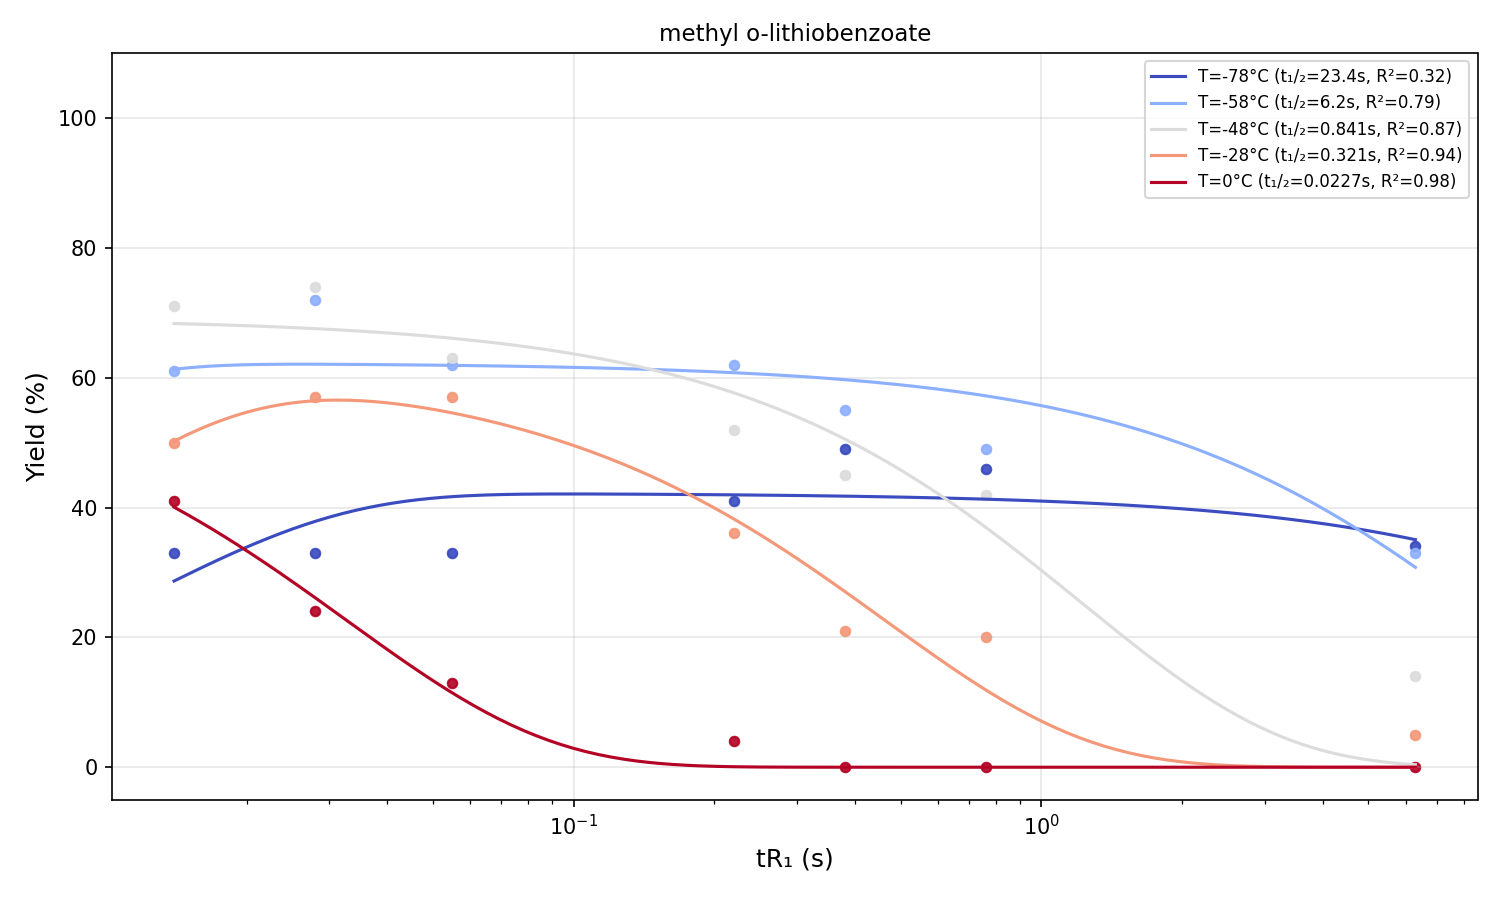
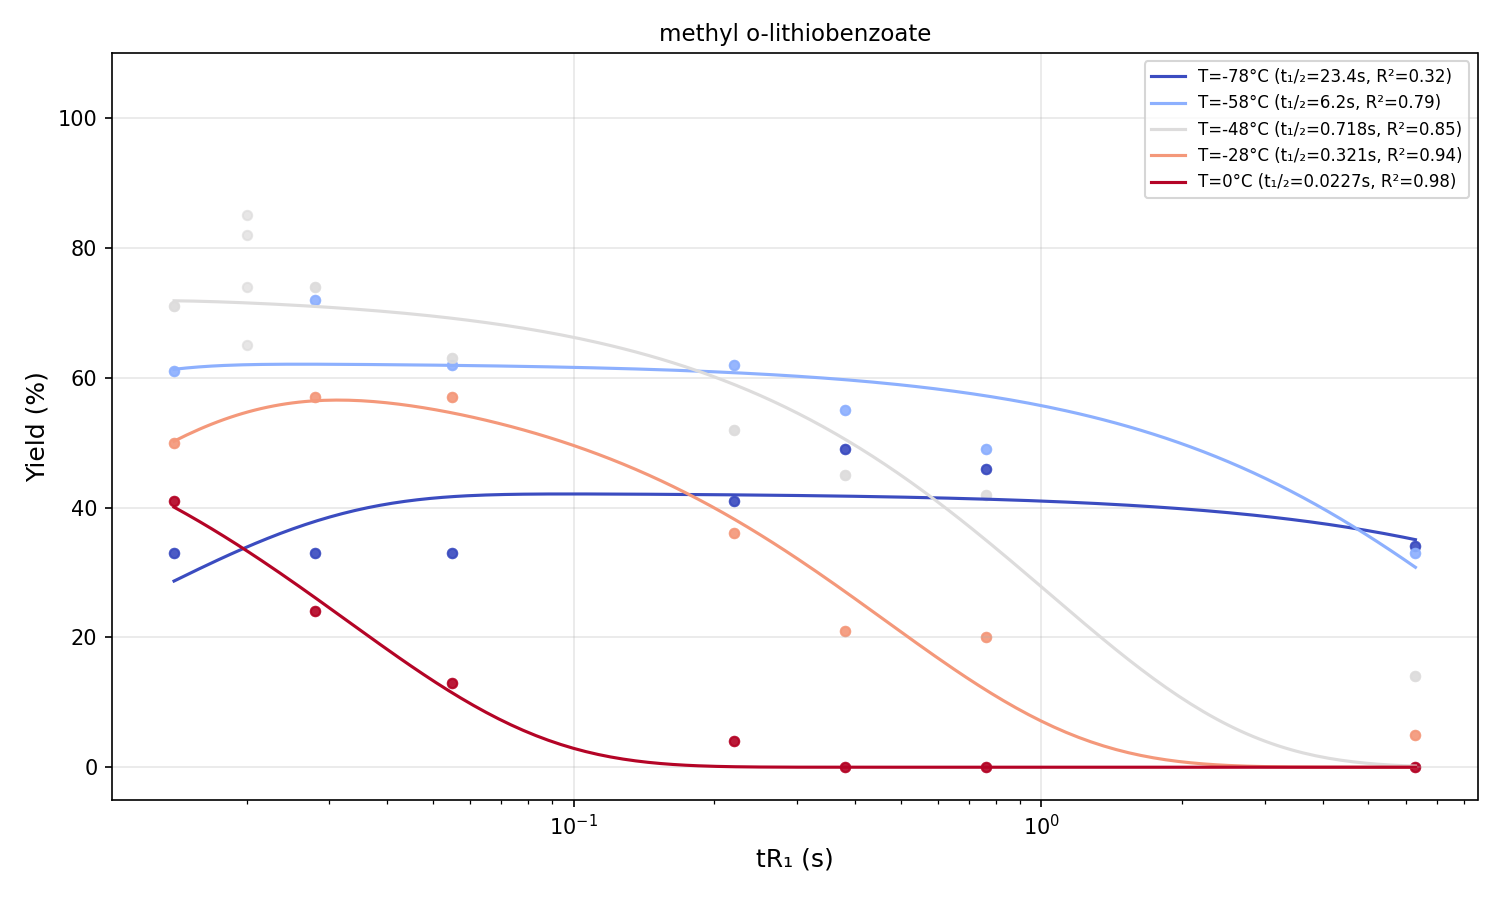
fix: add electrophile-aware fallback in phase_a decay fitting
Problem: mixed electrophile data at same (intermediate, T) caused noisy
yield-vs-tR curves, leading to curve_fit failures. E.g., o-BrPhLi at
-60°C had benzaldehyde (Table S-1) and methanol (Table 1) data mixed.

Fix: conservative approach — keep original merged-data fitting as default,
but when it returns formation_only and multiple electrophiles exist, try
fitting each sub-group separately and pick the best competing fit.

Results: 2 electrophile fallbacks triggered. Net change:
- Total Arrhenius entries: 40 → 42 (+2 new tier2_2pt)
- Tier1 count unchanged (26)
- New: 1-triphenylsilyloxiranyllithium, (E)-β-styryllithium
- 4 compounds restored from old data (not in current raw CSV)
- Phase A re-fitted with all 270 groups, plots regenerated

diff --git a/scripts/ml_lifetime/phase_a_extract_halflife.py b/scripts/ml_lifetime/phase_a_extract_halflife.py
@@ -46,16 +46,21 @@ MIN_DECAY_DROP = 10  # percentage points
 def load_tr1_data():
     """Load tR1 data, grouped by (intermediate_smiles, T).
 
-    Compatible with both old enriched and new clean unified datasets.
+    When multiple electrophiles/sources exist at the same (smi, T),
+    merges all data by default (original behavior). The fit_curve
+    function handles noisy data via its R² check.
+
+    Also stores per-electrophile sub-groups so fit_curve can fall back
+    to single-electrophile fitting when merged data is too noisy.
     """
     groups = defaultdict(list)
+    elec_sub = defaultdict(lambda: defaultdict(list))  # (smi,T) → elec → points
+
     with open(INPUT_CSV) as f:
         for r in csv.DictReader(f):
-            # tR_step filter: accept "tR1" and "tR1+tR2" (use tR1 value)
             tr_step = r.get("tR_step", "")
             if not tr_step.startswith("tR1"):
                 continue
-            # SMILES: try canonical first, then raw
             smi = r.get("intermediate_smiles_canonical", "").strip()
             if not smi:
                 smi = r.get("intermediate_smiles", "").strip()
@@ -69,10 +74,14 @@ def load_tr1_data():
             y = float(y_str)
             inter_name = r.get("intermediate", "")
             paper = r.get("paper_id", r.get("paper", ""))[:50]
-            groups[(smi, T_C)].append({
-                "tR": tR, "yield": y,
-                "intermediate": inter_name, "paper": paper,
-            })
+            electrophile = r.get("electrophile", "unknown").strip() or "unknown"
+            source = r.get("data_source_type", "").strip()
+
+            point = {"tR": tR, "yield": y, "intermediate": inter_name, "paper": paper}
+            groups[(smi, T_C)].append(point)
+            elec_sub[(smi, T_C)][(electrophile, source)].append(point)
+
+    return groups, elec_sub
     return groups
 
 
@@ -245,7 +254,7 @@ def plot_fits(results_by_intermediate):
 
 
 def main():
-    groups = load_tr1_data()
+    groups, elec_sub = load_tr1_data()
     print(f"[Phase A] Loaded {len(groups)} (intermediate, T) groups")
 
     # Fit each group
@@ -255,6 +264,7 @@ def main():
     n_decay = 0
     n_formation_only = 0
     n_skip = 0
+    n_elec_fallback = 0
 
     for (smi, T_C), points in sorted(groups.items(), key=lambda x: (x[0][0], x[0][1])):
         if len(points) < MIN_POINTS:
@@ -267,6 +277,26 @@ def main():
         paper = points[0]["paper"]
 
         result = fit_curve(tR_arr, y_arr)
+
+        # If merged-data fit gave formation_only or failed, but multiple
+        # electrophiles exist, try fitting each sub-group separately.
+        # Pick the sub-group that gives the best competing fit (lowest t_half).
+        sub_groups = elec_sub.get((smi, T_C), {})
+        if (result is None or result["model"] == "formation_only") and len(sub_groups) > 1:
+            best_sub = None
+            for (elec, src), sub_pts in sub_groups.items():
+                if len(sub_pts) < MIN_POINTS:
+                    continue
+                sub_tR = [p["tR"] for p in sub_pts]
+                sub_y = [p["yield"] for p in sub_pts]
+                sub_result = fit_curve(sub_tR, sub_y)
+                if sub_result and sub_result["model"] == "competing":
+                    if best_sub is None or sub_result["r2"] > best_sub["r2"]:
+                        best_sub = sub_result
+            if best_sub:
+                result = best_sub
+                n_elec_fallback += 1
+
         if result is None:
             n_skip += 1
             continue
@@ -338,6 +368,7 @@ def main():
     print(f"  Fitted:         {n_fit}")
     print(f"    with decay:   {n_decay}")
     print(f"    formation only: {n_formation_only}")
+    print(f"    electrophile fallback: {n_elec_fallback}")
     print(f"  Skipped:        {n_skip}")
 
     # Summary per intermediate
